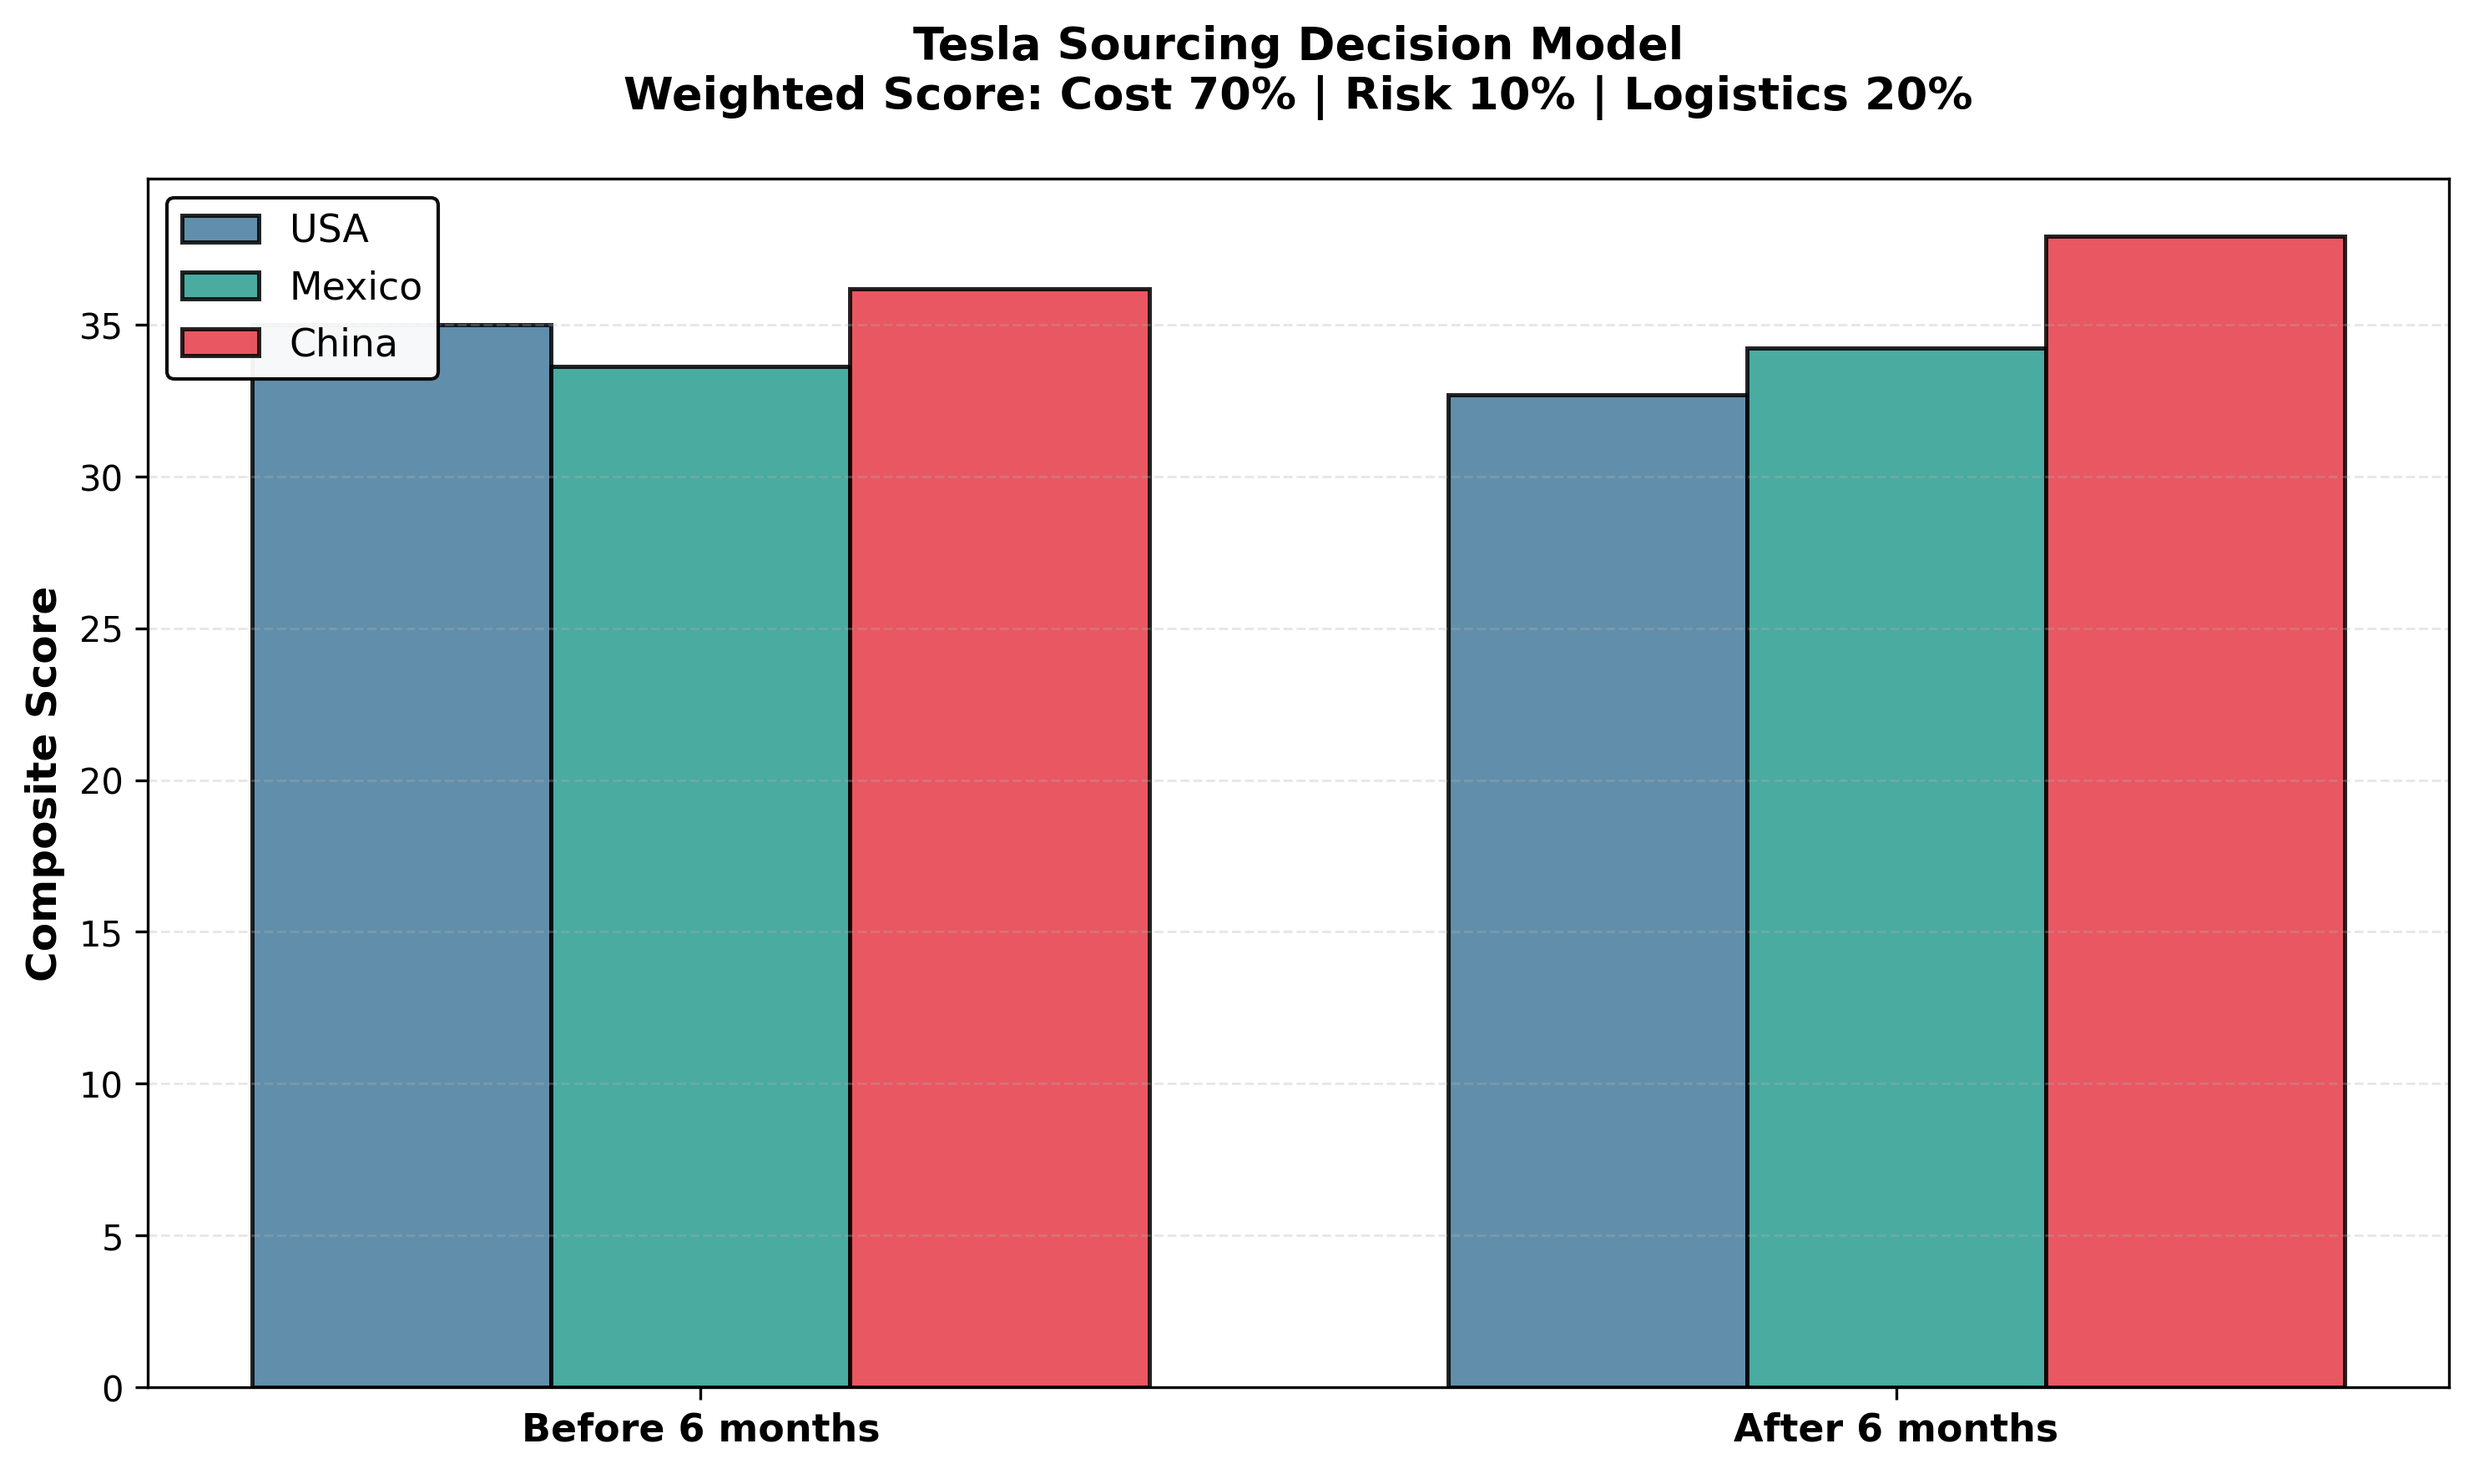
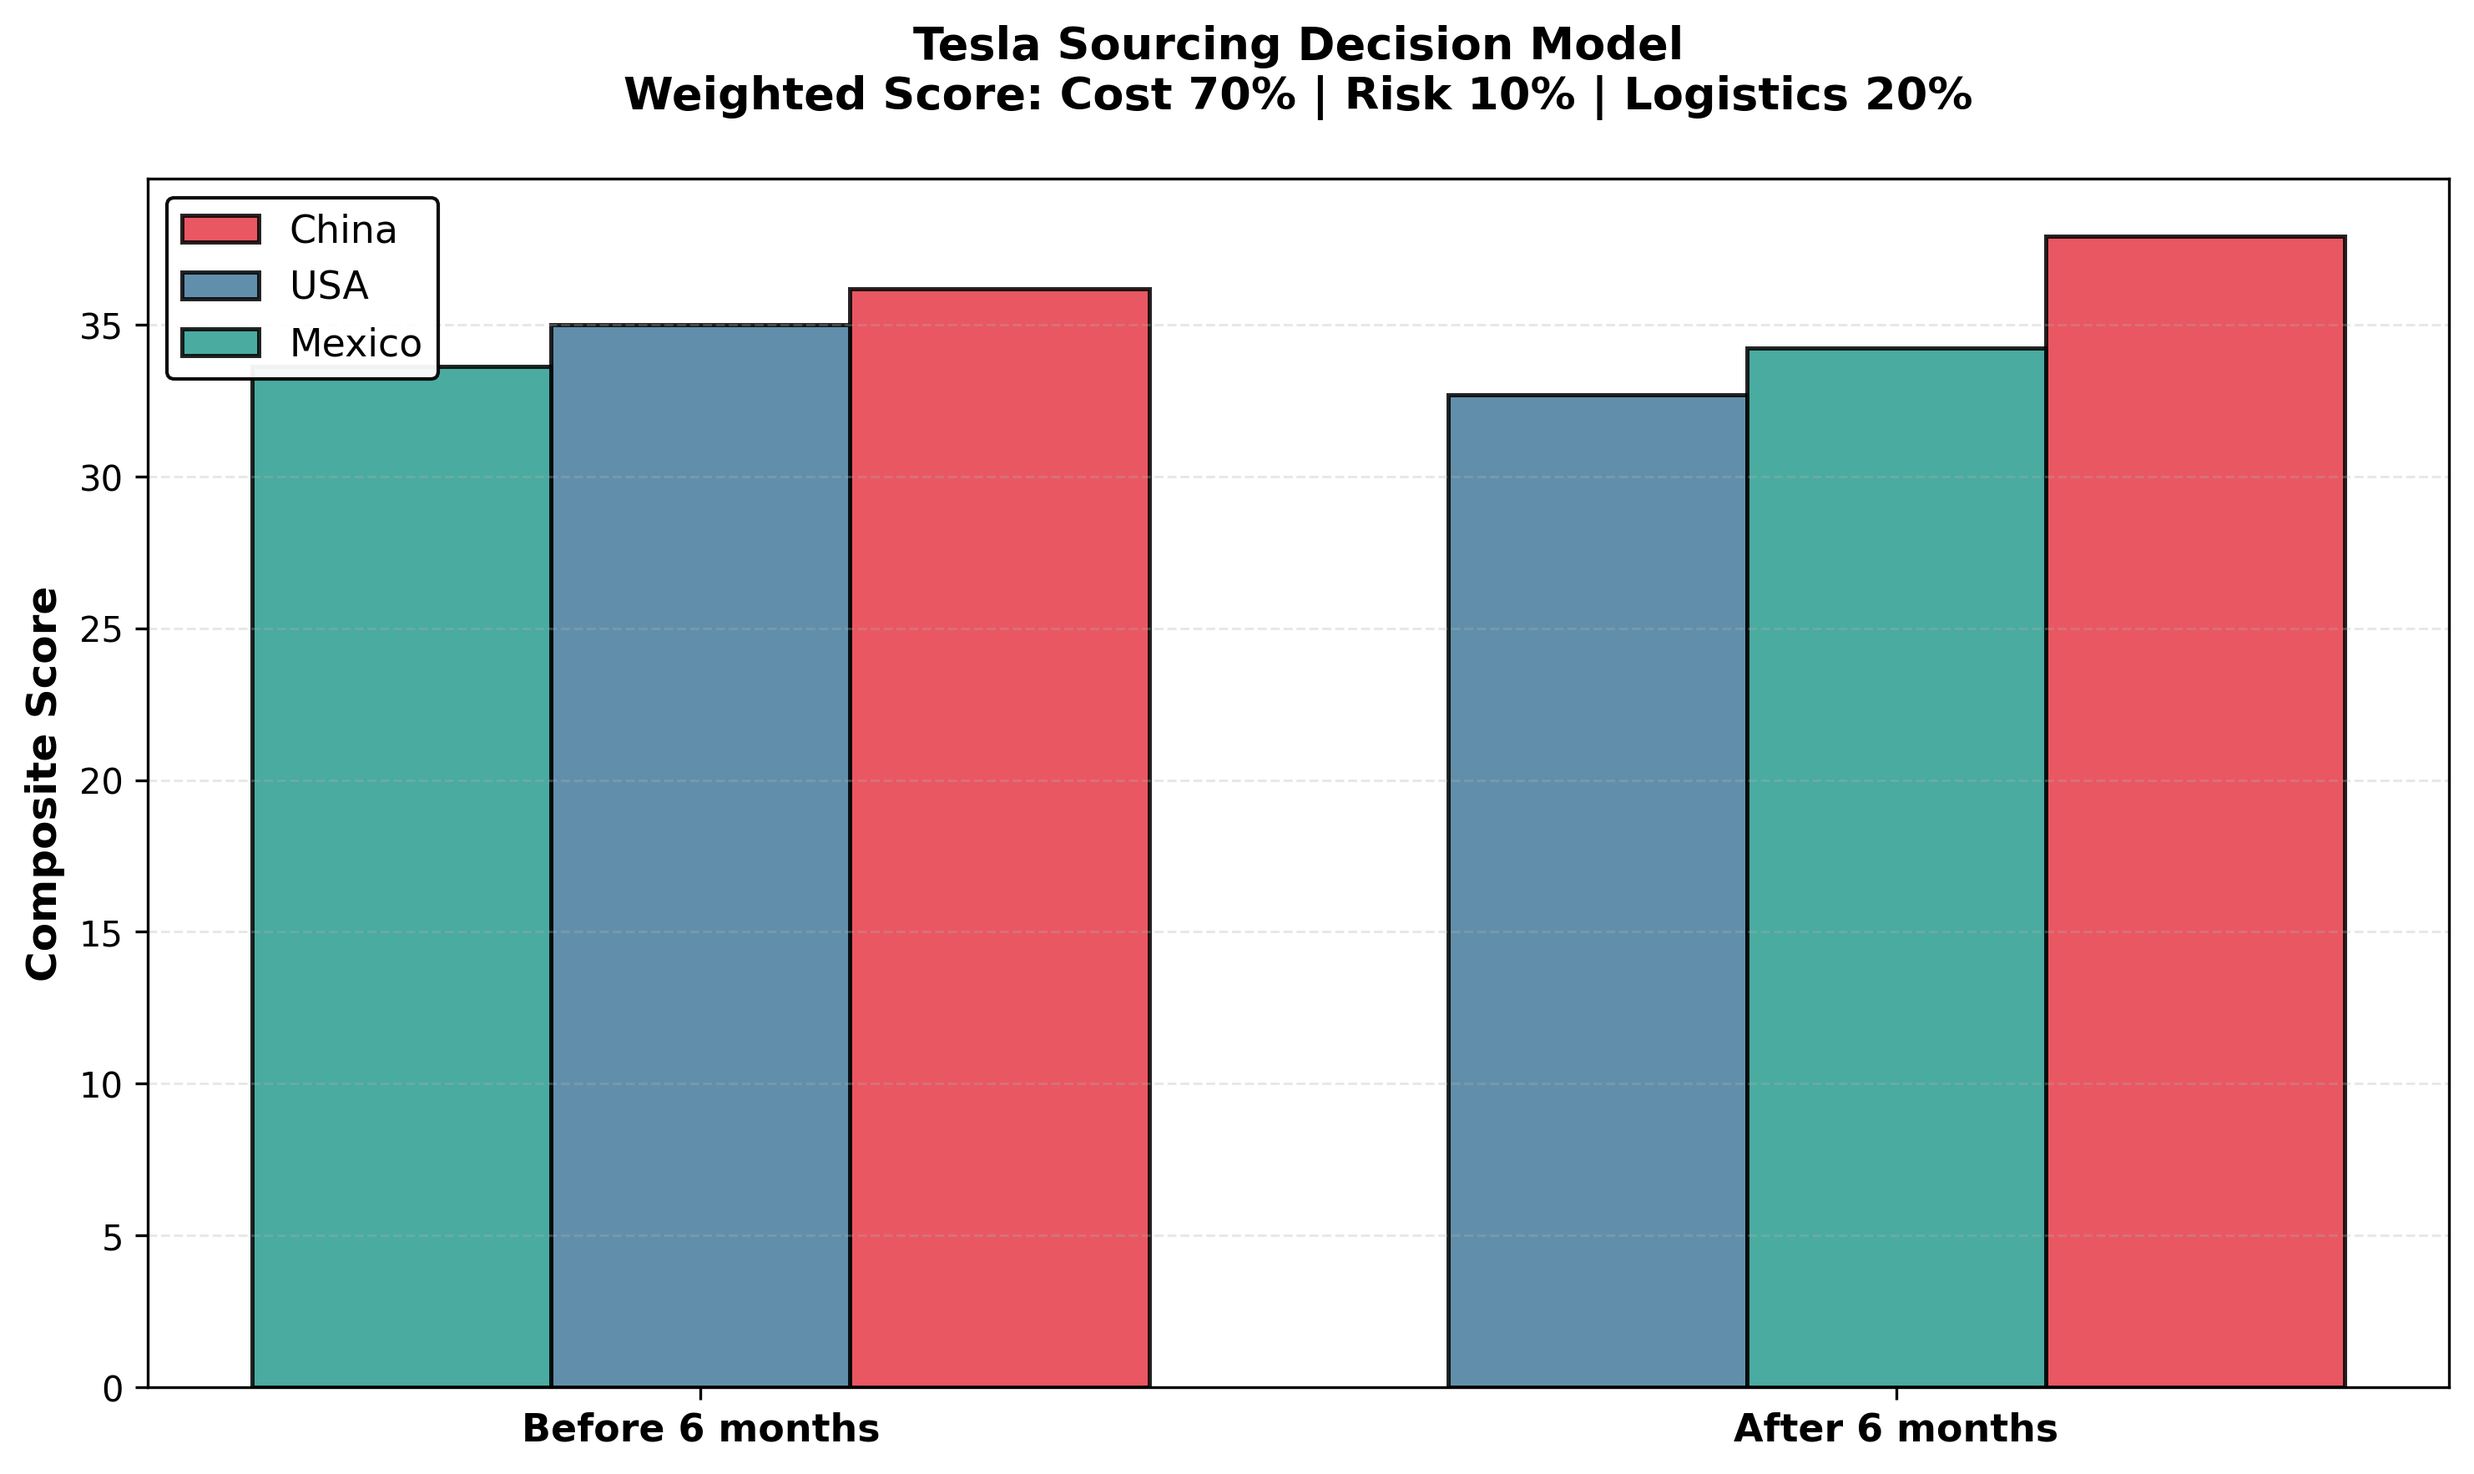
Refactor final_model.py to sort countries independently for each period in the bar plots, ensuring consistent color mapping across both periods. Update legend handling for clarity. Remove weight_finder.py as it is no longer needed.

Changed region(s): [[0.0621, 0.1246, 0.3414, 0.9655]]

diff --git a/final_model.py b/final_model.py
@@ -53,20 +53,21 @@ print(df.to_string(index=False))
 df.to_csv("tesla_ahp_scores.csv", index=False)
 
 # ----------------------------
-# PLOT (sorted from smallest to tallest score)
+# PLOT (each period sorted independently from lowest to highest)
 # ----------------------------
 
-# Sort countries by average score (smallest to tallest)
-avg_scores = (score_0_6 + score_6p) / 2
-sort_idx = np.argsort(avg_scores)
+# Sort countries separately for each period
+sort_idx_0_6 = np.argsort(score_0_6)
+sort_idx_6p = np.argsort(score_6p)
 
-countries_sorted = [countries[i] for i in sort_idx]
-score_0_6_sorted = score_0_6[sort_idx]
-score_6p_sorted = score_6p[sort_idx]
+countries_sorted_0_6 = [countries[i] for i in sort_idx_0_6]
+countries_sorted_6p = [countries[i] for i in sort_idx_6p]
+
+score_0_6_sorted = score_0_6[sort_idx_0_6]
+score_6p_sorted = score_6p[sort_idx_6p]
 
 # Better color scheme with high contrast
 colors_map = {"China": "#E63946", "USA": "#457B9D", "Mexico": "#2A9D8F"}
-colors_sorted = [colors_map[c] for c in countries_sorted]
 
 x = np.arange(2)  # [Before 6 months, After 6 months]
 bar_width = 0.25
@@ -74,21 +75,32 @@ bar_width = 0.25
 plt.figure(figsize=(10, 6))
 plt.style.use('default')
 
-for i, (country, color) in enumerate(zip(countries_sorted, colors_sorted)):
-    bars = plt.bar(x + (i - 1) * bar_width,
-                   [score_0_6_sorted[i], score_6p_sorted[i]],
-                   width=bar_width,
-                   label=country,
-                   color=color,
-                   edgecolor='black',
-                   linewidth=1.2,
-                   alpha=0.85)
+# Plot each country with consistent color across both periods
+# Use handles for proper legend
+handles = []
+for country, color in colors_map.items():
+    # Find position in each sorted array
+    pos_0_6 = countries_sorted_0_6.index(country)
+    pos_6p = countries_sorted_6p.index(country)
+    
+    # Plot bars at the sorted positions
+    bar1 = plt.bar(x[0] + (pos_0_6 - 1) * bar_width, score_0_6[countries.index(country)],
+                   width=bar_width, color=color,
+                   edgecolor='black', linewidth=1.2, alpha=0.85)
+    
+    plt.bar(x[1] + (pos_6p - 1) * bar_width, score_6p[countries.index(country)],
+            width=bar_width, color=color,
+            edgecolor='black', linewidth=1.2, alpha=0.85)
+    
+    # Add to legend
+    handles.append((bar1[0], country))
 
 plt.xticks(x, ["Before 6 months", "After 6 months"], fontsize=11, fontweight='bold')
 plt.ylabel("Composite Score", fontsize=12, fontweight='bold')
 plt.title("Tesla Sourcing Decision Model\nWeighted Score: Cost 70% | Risk 10% | Logistics 20%", 
           fontsize=13, fontweight='bold', pad=20)
-plt.legend(fontsize=11, loc='upper left', framealpha=0.95, edgecolor='black')
+plt.legend([h[0] for h in handles], [h[1] for h in handles], 
+           fontsize=11, loc='upper left', framealpha=0.95, edgecolor='black')
 plt.grid(axis='y', alpha=0.3, linestyle='--', linewidth=0.7)
 plt.tight_layout()
 
@@ -105,24 +117,35 @@ plt.show()
 plt.figure(figsize=(10, 6))
 plt.style.use('default')
 
-for i, (country, color) in enumerate(zip(countries_sorted, colors_sorted)):
-    bars = plt.bar(x + (i - 1) * bar_width,
-                   [score_0_6_sorted[i], score_6p_sorted[i]],
-                   width=bar_width,
-                   label=country,
-                   color=color,
-                   edgecolor='black',
-                   linewidth=1.2,
-                   alpha=0.85)
+# Plot each country with consistent color across both periods (same sorting logic)
+# Use handles for proper legend
+handles2 = []
+for country, color in colors_map.items():
+    # Find position in each sorted array
+    pos_0_6 = countries_sorted_0_6.index(country)
+    pos_6p = countries_sorted_6p.index(country)
+    
+    # Plot bars at the sorted positions
+    bar1 = plt.bar(x[0] + (pos_0_6 - 1) * bar_width, score_0_6[countries.index(country)],
+                   width=bar_width, color=color,
+                   edgecolor='black', linewidth=1.2, alpha=0.85)
+    
+    plt.bar(x[1] + (pos_6p - 1) * bar_width, score_6p[countries.index(country)],
+            width=bar_width, color=color,
+            edgecolor='black', linewidth=1.2, alpha=0.85)
+    
+    # Add to legend
+    handles2.append((bar1[0], country))
 
-# Set y-axis to start at 30 to highlight differences
-plt.ylim(30, max(score_0_6.max(), score_6p.max()) + 2)
+# Set y-axis to start at 25 to highlight differences
+plt.ylim(25, max(score_0_6.max(), score_6p.max()) + 2)
 
 plt.xticks(x, ["Before 6 months", "After 6 months"], fontsize=11, fontweight='bold')
 plt.ylabel("Composite Score", fontsize=12, fontweight='bold')
 plt.title("Tesla Sourcing Decision Model (Zoomed View)\nWeighted Score: Cost 70% | Risk 10% | Logistics 20%", 
           fontsize=13, fontweight='bold', pad=20)
-plt.legend(fontsize=11, loc='upper left', framealpha=0.95, edgecolor='black')
+plt.legend([h[0] for h in handles2], [h[1] for h in handles2],
+           fontsize=11, loc='upper left', framealpha=0.95, edgecolor='black')
 plt.grid(axis='y', alpha=0.3, linestyle='--', linewidth=0.7)
 plt.tight_layout()
 
